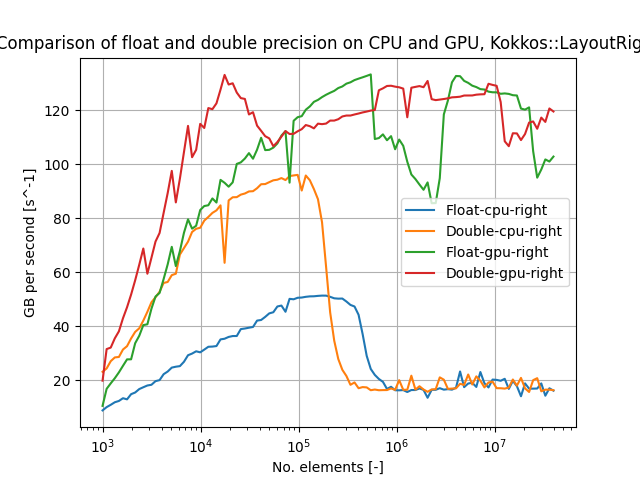
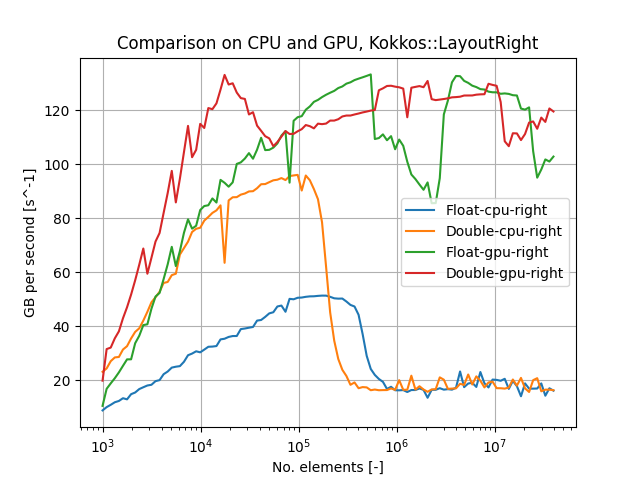
L4

Changed region(s): [[0.0, 0.0625, 1.0, 0.125]]

diff --git a/L4/plots.py b/L4/plots.py
@@ -46,7 +46,7 @@ plt.grid()
 plt.ylabel("GFLOPs per second [s^-1]")
 plt.xlabel("No. elements [-]")
 plt.legend(["Float-cpu-right", "Double-cpu-right", "Float-gpu-left", "Double-gpu-left"])
-plt.title("Comparison of float and double precision on CPU and GPU")
+plt.title("Comparison on CPU and GPU")
 plt.savefig("FDCGgflops.png")
 
 plt.clf()
@@ -59,7 +59,7 @@ plt.grid()
 plt.ylabel("GB per second [s^-1]")
 plt.xlabel("No. elements [-]")
 plt.legend(["Float-cpu-right", "Double-cpu-right", "Float-gpu-left", "Double-gpu-left"])
-plt.title("Comparison of float and double precision on CPU and GPU")
+plt.title("Comparison on CPU and GPU")
 plt.savefig("FDCGgb.png")
 
 
@@ -74,7 +74,7 @@ plt.grid()
 plt.ylabel("Million elements per second [s^-1]")
 plt.xlabel("No. elements [-]")
 plt.legend(["Float-cpu-left", "Double-cpu-left", "Float-gpu-left", "Double-gpu-left"])
-plt.title("Comparison of float and double precision on CPU and GPU, Kokkos::LayoutLeft")
+plt.title("Comparison on CPU and GPU, Kokkos::LayoutLeft")
 plt.savefig("FDCGLmele.png")
 
 plt.clf()
@@ -87,7 +87,7 @@ plt.grid()
 plt.ylabel("GFLOPs per second [s^-1]")
 plt.xlabel("No. elements [-]")
 plt.legend(["Float-cpu-left", "Double-cpu-left", "Float-gpu-left", "Double-gpu-left"])
-plt.title("Comparison of float and double precision on CPU and GPU, Kokkos::LayoutLeft")
+plt.title("Comparison on CPU and GPU, Kokkos::LayoutLeft")
 plt.savefig("FDCGLgflops.png")
 
 plt.clf()
@@ -100,7 +100,7 @@ plt.grid()
 plt.ylabel("GB per second [s^-1]")
 plt.xlabel("No. elements [-]")
 plt.legend(["Float-cpu-left", "Double-cpu-left", "Float-gpu-left", "Double-gpu-left"])
-plt.title("Comparison of float and double precision on CPU and GPU, Kokkos::LayoutLeft")
+plt.title("Comparison on CPU and GPU, Kokkos::LayoutLeft")
 plt.savefig("FDCGLgb.png")
 
 
@@ -114,7 +114,7 @@ plt.grid()
 plt.ylabel("Million elements per second [s^-1]")
 plt.xlabel("No. elements [-]")
 plt.legend(["Float-cpu-right", "Double-cpu-right", "Float-gpu-right", "Double-gpu-right"])
-plt.title("Comparison of float and double precision on CPU and GPU, Kokkos::LayoutRight")
+plt.title("Comparison on CPU and GPU, Kokkos::LayoutRight")
 plt.savefig("FDCGRmele.png")
 
 plt.clf()
@@ -127,7 +127,7 @@ plt.grid()
 plt.ylabel("GFLOPs per second [s^-1]")
 plt.xlabel("No. elements [-]")
 plt.legend(["Float-cpu-right", "Double-cpu-right", "Float-gpu-right", "Double-gpu-right"])
-plt.title("Comparison of float and double precision on CPU and GPU, Kokkos::LayoutRight")
+plt.title("Comparison on CPU and GPU, Kokkos::LayoutRight")
 plt.savefig("FDCGRgflops.png")
 
 plt.clf()
@@ -140,7 +140,7 @@ plt.grid()
 plt.ylabel("GB per second [s^-1]")
 plt.xlabel("No. elements [-]")
 plt.legend(["Float-cpu-right", "Double-cpu-right", "Float-gpu-right", "Double-gpu-right"])
-plt.title("Comparison of float and double precision on CPU and GPU, Kokkos::LayoutRight")
+plt.title("Comparison on CPU and GPU, Kokkos::LayoutRight")
 plt.savefig("FDCGRgb.png")
 
 plt.clf()
@@ -154,7 +154,7 @@ plt.grid()
 plt.ylabel("Time [s]")
 plt.xlabel("No. elements [-]")
 plt.legend(["Jtime-float-cpu-left", "Ctime-float-cpu-left", "Jtime-float-gpu-left", "Jtime-float-gpu-left"])
-plt.title("Time comparison of float and double precision on CPU and GPU, Kokkos::LayoutLeft")
+plt.title("Time comparison on CPU and GPU, Kokkos::LayoutLeft")
 plt.savefig("TL.png")
 
 plt.clf()
@@ -168,5 +168,5 @@ plt.grid()
 plt.ylabel("Time [s]")
 plt.xlabel("No. elements [-]")
 plt.legend(["Jtime-float-cpu-right", "Ctime-float-cpu-right", "Jtime-float-gpu-right", "Jtime-float-gpu-right"])
-plt.title("Time comparison of float and double precision on CPU and GPU, Kokkos::LayoutRight")
+plt.title("Time comparison on CPU and GPU, Kokkos::LayoutRight")
 plt.savefig("TR.png")
